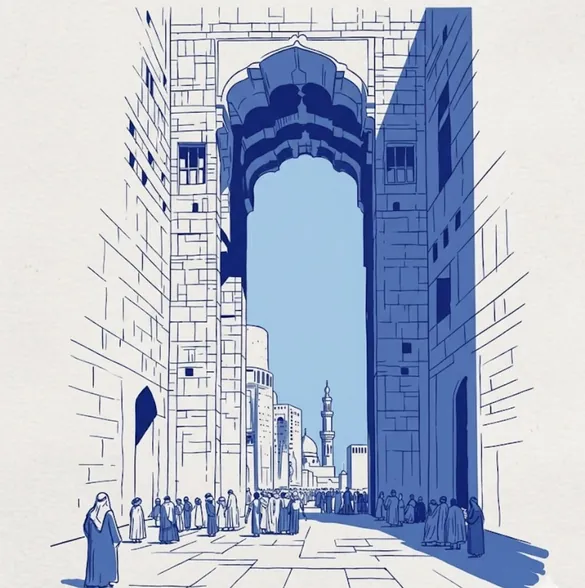
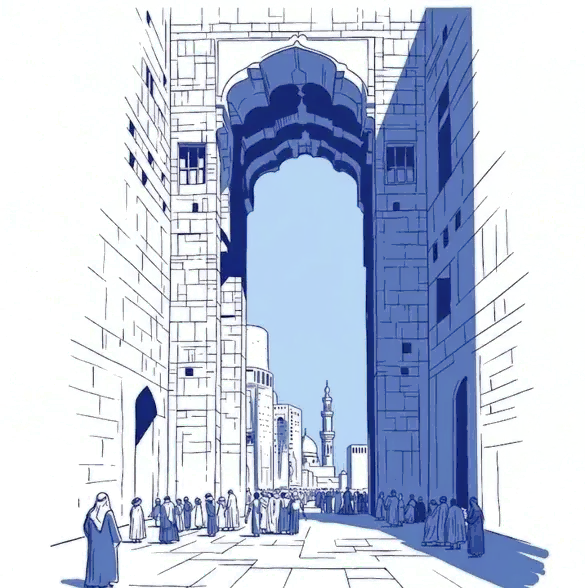
Hero story: four ink scenes with walking townspeople and riders, starts after 3 seconds

diff --git a/src/styles/global.css b/src/styles/global.css
@@ -1484,62 +1484,108 @@ html { overflow-x: clip; }
 }
 
 
-/* ───────── The Tale of the Gate (hero story) ─────────
-   Plays after the visitor lingers: the words step aside, the ink gate washes in from the top,
-   riders gallop out (Muybridge frames redrawn in ink), dusk and lanterns, then a full charge returns. */
+
+/* ───────── The Tale (hero story) ─────────
+   After a few seconds on the opening screen the words step aside and four ink scenes wash in,
+   each slowly panning, with robed townspeople walking through and riders galloping past. */
 @property --rv { syntax: '<percentage>'; inherits: false; initial-value: 0%; }
 @layer components {
-  #home .hero-h1, #home .hero-h1 ~ p, #home .hero-stores { transition: opacity .9s cubic-bezier(.33,1,.68,1), filter .9s ease, transform .9s cubic-bezier(.33,1,.68,1); }
+  #home .hero-h1, #home .hero-h1 ~ p, #home .hero-stores { transition: opacity 1s cubic-bezier(.33,1,.68,1), filter 1s ease, transform 1s cubic-bezier(.33,1,.68,1); }
   #home.tale-on .hero-h1, #home.tale-on .hero-h1 ~ p, #home.tale-on .hero-stores { opacity: 0; filter: blur(8px); transform: translate3d(0, -10px, 0); pointer-events: none; }
 
-  .tale { --ink: #2A4AA0; --unit: 1vw; position: absolute; inset: 0; z-index: 5; pointer-events: none; opacity: 0; visibility: hidden; transition: opacity 1.2s cubic-bezier(.33,1,.68,1), visibility 0s linear 1.2s; }
+  .tale { --ink: #22409A; position: absolute; inset: 0 0 auto; height: min(100%, 100svh); z-index: 5; pointer-events: none; opacity: 0; visibility: hidden; transition: opacity 1.1s cubic-bezier(.33,1,.68,1), visibility 0s linear 1.1s; }
   .tale.is-on { opacity: 1; visibility: visible; transition-delay: 0s; }
   .tale__stage { position: absolute; inset: 0; overflow: hidden; }
 
-  .tale__scene { position: absolute; left: 50%; bottom: 3%; width: min(100%, 520px); aspect-ratio: 1170 / 1177; transform: translateX(-50%); }
-  .tale__gate { width: 100%; height: 100%; display: block; mix-blend-mode: multiply;
-    -webkit-mask-image: linear-gradient(180deg, #000 calc(var(--rv) - 22%), transparent var(--rv)); mask-image: linear-gradient(180deg, #000 calc(var(--rv) - 22%), transparent var(--rv));
-    transition: --rv 4.2s cubic-bezier(.45,0,.2,1); }
-  .tale.is-drawn .tale__gate { --rv: 125%; }
+  /* Scenes: centred on the lower part of the hero; wider than a phone screen so they can pan across. */
+  .tale__scene { position: absolute; left: 50%; bottom: 2%; height: 60%; aspect-ratio: var(--ar); transform: translateX(-50%);
+    -webkit-mask-image: radial-gradient(circle at 50% 58%, #000 calc(var(--rv) - 26%), transparent var(--rv)); mask-image: radial-gradient(circle at 50% 58%, #000 calc(var(--rv) - 26%), transparent var(--rv));
+    opacity: 0; transition: --rv 2.6s cubic-bezier(.45,0,.2,1), opacity 1.2s ease; }
+  .tale__scene--gate { height: 56%; }
+  .tale__pan { position: absolute; inset: 0; will-change: transform;
+    -webkit-mask-image: radial-gradient(72% 70% at 50% 54%, #000 60%, transparent 100%); mask-image: radial-gradient(72% 70% at 50% 54%, #000 60%, transparent 100%); }
+  .tale__scene--gate .tale__pan { -webkit-mask-image: linear-gradient(90deg, transparent, #000 16%, #000 84%, transparent), linear-gradient(180deg, transparent, #000 9%, #000 90%, transparent); -webkit-mask-composite: source-in;
+    mask-image: linear-gradient(90deg, transparent, #000 16%, #000 84%, transparent), linear-gradient(180deg, transparent, #000 9%, #000 90%, transparent); mask-composite: intersect; }
+  .tale__pan > img { position: absolute; inset: 0; width: 100%; height: 100%; display: block; mix-blend-mode: multiply; }
+  .tale.s-0 [data-scene='0'], .tale.s-1 [data-scene='1'], .tale.s-2 [data-scene='2'], .tale.s-3 [data-scene='3'] { --rv: 150%; opacity: 1; transition: --rv 2.6s cubic-bezier(.45,0,.2,1), opacity .4s ease; }
+  .tale.s-0 [data-scene='0'] .tale__pan, .tale.s-1 [data-scene='1'] .tale__pan, .tale.s-2 [data-scene='2'] .tale__pan, .tale.s-3 [data-scene='3'] .tale__pan { animation: kenburns 9s cubic-bezier(.3,0,.4,1) both; }
+  [data-scene='1'] .tale__pan, [data-scene='3'] .tale__pan { --kx: -1; }
+  @keyframes kenburns { from { transform: translate3d(calc(var(--kx, 1) * 1.5%), 1%, 0) scale(1.04); } to { transform: translate3d(calc(var(--kx, 1) * -1.5%), 0, 0) scale(1.1); } }
 
-  .tale__dusk { position: absolute; inset: 0; background: radial-gradient(120% 90% at 50% 30%, rgba(30,46,110,.25), rgba(16,26,70,.55)); mix-blend-mode: multiply; opacity: 0; transition: opacity 2.2s ease; }
-  .tale.is-dusk .tale__dusk { opacity: 1; }
-  .tale__lamp { position: absolute; width: 18%; aspect-ratio: 1; transform: translate(-50%, -50%); border-radius: 50%; background: radial-gradient(circle, rgba(255,196,110,.95) 0 6%, rgba(255,170,80,.45) 18%, rgba(255,150,60,0) 62%); opacity: 0; transition: opacity 1.8s ease .4s; }
-  .tale.is-dusk .tale__lamp { opacity: 1; animation: lamp 2.6s ease-in-out infinite alternate; }
+  /* Dusk and lanterns on the closing scene. */
+  .tale__dusk { position: absolute; inset: 0; background: radial-gradient(120% 90% at 50% 30%, rgba(30,46,110,.22), rgba(16,26,70,.5)); mix-blend-mode: multiply; opacity: 0; transition: opacity 2.4s ease .6s; }
+  .tale.s-3 .tale__dusk { opacity: 1; }
+  .tale__lamp { position: absolute; width: 18%; aspect-ratio: 1; transform: translate(-50%, -50%); border-radius: 50%; background: radial-gradient(circle, rgba(255,196,110,.95) 0 6%, rgba(255,170,80,.45) 18%, rgba(255,150,60,0) 62%); opacity: 0; transition: opacity 1.8s ease 1.6s; }
+  .tale.s-3 .tale__lamp { opacity: 1; animation: lamp 2.6s ease-in-out infinite alternate; }
   @keyframes lamp { from { transform: translate(-50%, -50%) scale(.92); filter: brightness(.9); } to { transform: translate(-50%, -50%) scale(1.08); filter: brightness(1.1); } }
 
-  .tale__birds { position: absolute; top: 24%; left: 0; width: calc(18 * var(--unit)); min-width: 70px; fill: none; stroke: var(--ink); stroke-width: 2.2; stroke-linecap: round; opacity: 0; transform: translateX(-30vw); }
-  .tale.is-birds .tale__birds { animation: birds 16s linear forwards; }
-  @keyframes birds { 0% { opacity: 0; transform: translate(-30vw, 6vh); } 8% { opacity: .9; } 85% { opacity: .9; } 100% { opacity: 0; transform: translate(110vw, -4vh); } }
+  /* Townspeople: each figure crosses the scene while its body bobs and its legs and arms swing. */
+  .tale__walk { position: absolute; left: 0; right: 0; bottom: var(--b); height: calc(var(--s) * 1.2%); opacity: 0; }
+  .tale__man { position: absolute; left: 0; bottom: 0; height: 100%; width: auto; aspect-ratio: 40 / 100; overflow: visible; }
+  .tale__walk.is-left .tale__man { transform: scaleX(-1); }
+  .tale.s-0 [data-scene='0'] .tale__walk, .tale.s-1 [data-scene='1'] .tale__walk, .tale.s-2 [data-scene='2'] .tale__walk, .tale.s-3 [data-scene='3'] .tale__walk { animation: walkR var(--t) linear var(--d) both; }
+  .tale.s-0 [data-scene='0'] .tale__walk.is-left, .tale.s-1 [data-scene='1'] .tale__walk.is-left, .tale.s-2 [data-scene='2'] .tale__walk.is-left, .tale.s-3 [data-scene='3'] .tale__walk.is-left { animation-name: walkL; }
+  @keyframes walkR { 0% { opacity: 0; transform: translate3d(6%, 0, 0); } 8% { opacity: 1; } 100% { opacity: 1; transform: translate3d(78%, 0, 0); } }
+  @keyframes walkL { 0% { opacity: 0; transform: translate3d(90%, 0, 0); } 8% { opacity: 1; } 100% { opacity: 1; transform: translate3d(18%, 0, 0); } }
+  .tale__man path, .tale__man circle, .tale__man rect { fill: var(--ink); stroke: var(--ink); stroke-linejoin: round; stroke-linecap: round; }
+  .tale__leg, .tale__arm, .tale__staff { fill: none !important; stroke-width: 3.4; }
+  .tale__staff { stroke-width: 2; }
+  .tale__robe { stroke-width: 1; }
+  .tale__wrap { fill: #F4F0E8 !important; stroke-width: 1.4; }
+  .tale__pot { fill: #F4F0E8 !important; stroke-width: 2; }
+  .tale__book { fill: #F4F0E8 !important; stroke-width: 1.6; }
+  .tale__drum { fill: #F4F0E8 !important; stroke-width: 1.8; }
+  .tale__bob, .tale__leg, .tale__arm { transform-box: fill-box; }
+  .tale__bob { transform-origin: 50% 100%; animation: bob .9s ease-in-out infinite; }
+  .tale__leg { transform-origin: 50% 0; animation: stride .9s ease-in-out infinite alternate; }
+  .tale__leg--b { animation-delay: -.9s; }
+  .tale__arm { transform-origin: 50% 0; animation: swing .9s ease-in-out infinite alternate-reverse; }
+  .tale__arm--b { animation-delay: -.9s; }
+  .tale__arm--up { animation: none; }
+  .tale__arm--beat { animation: beat .45s ease-in-out infinite alternate; }
+  .tale__man--child .tale__bob { animation-duration: .7s; }
+  .tale__man--child .tale__leg, .tale__man--child .tale__arm { animation-duration: .7s; }
+  .tale__man--staff .tale__bob { animation-duration: 1.05s; }
+  .tale__man--staff .tale__leg, .tale__man--staff .tale__arm { animation-duration: 1.05s; }
+  @keyframes bob { 0%, 100% { transform: translateY(0) rotate(-1deg); } 50% { transform: translateY(-2.4%) rotate(1deg); } }
+  @keyframes stride { from { transform: rotate(-16deg); } to { transform: rotate(16deg); } }
+  @keyframes swing { from { transform: rotate(-20deg); } to { transform: rotate(20deg); } }
+  @keyframes beat { from { transform: rotate(-30deg); } to { transform: rotate(10deg); } }
 
-  .tale__charge { position: absolute; left: 0; right: 0; bottom: 4%; height: 0; }
-  .tale__run { position: absolute; left: 0; bottom: calc(var(--y) * 1px); width: calc(var(--w) * var(--unit)); aspect-ratio: 360 / 217; opacity: 0; }
+  /* Riders (Muybridge gallop frames redrawn in ink). */
+  .tale__run { position: absolute; left: 0; bottom: var(--b); width: calc(var(--w) * 1%); aspect-ratio: 360 / 217; opacity: 0; }
   .tale__rider { position: absolute; inset: 0; overflow: hidden; }
   .tale__strip { width: 1300%; height: 100%; background: url('/images/story/gallop.png') 0 0 / 100% 100% no-repeat; animation: gallop .56s steps(13) infinite; }
   @keyframes gallop { to { transform: translate3d(-100%, 0, 0); } }
-  .tale__dust { position: absolute; left: -8%; bottom: -4%; width: 40%; height: 26%; border-radius: 50%; background: radial-gradient(closest-side, rgba(42,74,160,.32), rgba(42,74,160,0)); animation: dust .56s ease-out infinite; }
+  .tale__dust { position: absolute; left: -8%; bottom: -4%; width: 40%; height: 26%; border-radius: 50%; background: radial-gradient(closest-side, rgba(34,64,154,.3), rgba(34,64,154,0)); animation: dust .56s ease-out infinite; }
   @keyframes dust { 0% { transform: scale(.6); opacity: .9; } 100% { transform: translate(-20%, -30%) scale(1.5); opacity: 0; } }
+  .tale__run.is-left .tale__rider, .tale__run.is-left .tale__dust { transform: scaleX(-1); }
+  .tale__run.is-left .tale__dust { left: auto; right: -8%; }
+  .tale.s-2 [data-scene='2'] .tale__run { animation: rideR 5.4s cubic-bezier(.3,.1,.7,.9) var(--d) both; }
+  .tale.s-3 [data-scene='3'] .tale__run { animation: rideL 5.4s cubic-bezier(.3,.1,.7,.9) calc(var(--d) + 2.4s) both; }
+  @keyframes rideR { 0% { opacity: 0; transform: translate3d(-110%, 0, 0); } 6% { opacity: 1; } 94% { opacity: 1; } 100% { opacity: 0; transform: translate3d(420%, 0, 0); } }
+  @keyframes rideL { 0% { opacity: 0; transform: translate3d(420%, 0, 0); } 6% { opacity: 1; } 94% { opacity: 1; } 100% { opacity: 0; transform: translate3d(-110%, 0, 0); } }
 
-  .tale.is-out .tale__charge--out .tale__run { animation: rideOut 5.6s linear var(--d) forwards; }
-  @keyframes rideOut { 0% { opacity: 1; transform: translate3d(-45vw, 0, 0); } 100% { opacity: 1; transform: translate3d(115vw, 0, 0); } }
-  .tale__charge--back .tale__rider, .tale__charge--back .tale__dust { transform: scaleX(-1); }
-  .tale__charge--back .tale__dust { left: auto; right: -8%; }
-  .tale.is-back .tale__charge--back .tale__run { animation: rideBack 6.2s linear var(--d) forwards; }
-  @keyframes rideBack { 0% { opacity: 1; transform: translate3d(115vw, 0, 0); } 100% { opacity: 1; transform: translate3d(-50vw, 0, 0); } }
+  .tale__birds { position: absolute; top: 30%; left: 0; width: max(70px, 10vw); fill: none; stroke: var(--ink); stroke-width: 2.2; stroke-linecap: round; opacity: 0; }
+  .tale.is-birds .tale__birds { animation: birds 14s linear forwards; }
+  @keyframes birds { 0% { opacity: 0; transform: translate3d(-20vw, 5vh, 0); } 10% { opacity: .85; } 85% { opacity: .85; } 100% { opacity: 0; transform: translate3d(105vw, -4vh, 0); } }
 
-  .tale__caps { position: absolute; left: 0; right: 0; top: clamp(110px, 16%, 170px); display: grid; padding: 0 22px; text-align: center; }
+  .tale__caps { position: absolute; left: 0; right: 0; top: clamp(104px, 15%, 160px); display: grid; padding: 0 22px; text-align: center; }
   .tale__cap { grid-area: 1 / 1; margin: 0 auto; max-width: 22ch; font-family: var(--serif); font-size: clamp(22px, 6vw, 38px); line-height: 1.18; color: var(--ink); text-wrap: balance;
     opacity: 0; transform: translate3d(0, 12px, 0); filter: blur(6px); transition: opacity 1.1s cubic-bezier(.33,1,.68,1), transform 1.1s cubic-bezier(.33,1,.68,1), filter 1.1s ease; }
-  .tale.cap-0 [data-cap='0'], .tale.cap-1 [data-cap='1'], .tale.cap-2 [data-cap='2'], .tale.cap-3 [data-cap='3'] { opacity: 1; transform: none; filter: none; }
+  .tale.c-0 [data-cap='0'], .tale.c-1 [data-cap='1'], .tale.c-2 [data-cap='2'], .tale.c-3 [data-cap='3'] { opacity: 1; transform: none; filter: none; }
 
-  @media (min-width: 768px) {
-    .tale { --unit: .55vw; }
-    .tale__scene { width: auto; height: 74%; bottom: 2%; }
-    .tale__caps { top: clamp(110px, 13%, 150px); }
-    .tale__cap { max-width: 28ch; font-size: clamp(26px, 2.6vw, 40px); }
+  @media (max-width: 767px) {
+    /* On phones the wide engravings pan slowly from one side to the other. */
+    .tale__scene { height: 52%; }
+    .tale__scene--gate { height: auto; width: 112%; }
+    .tale.s-1 [data-scene='1'] .tale__pan, .tale.s-2 [data-scene='2'] .tale__pan { animation-name: panPhone; animation-duration: 9s; animation-timing-function: cubic-bezier(.35,0,.45,1); }
+    @keyframes panPhone { from { transform: translate3d(calc(var(--kx, 1) * 16%), 0, 0) scale(1.02); } to { transform: translate3d(calc(var(--kx, 1) * -16%), 0, 0) scale(1.06); } }
   }
-}
-@layer components {
-  /* Soften the drawing's paper edges into the page so no rectangle shows. */
-  .tale__scene { -webkit-mask-image: radial-gradient(75% 70% at 50% 56%, #000 62%, transparent 100%); mask-image: radial-gradient(75% 70% at 50% 56%, #000 62%, transparent 100%); }
+  @media (min-width: 768px) {
+    .tale__scene { height: 66%; }
+    .tale__scene--gate { height: 70%; }
+    .tale__caps { top: clamp(104px, 12%, 150px); }
+    .tale__cap { max-width: 30ch; font-size: clamp(26px, 2.6vw, 40px); }
+  }
 }
